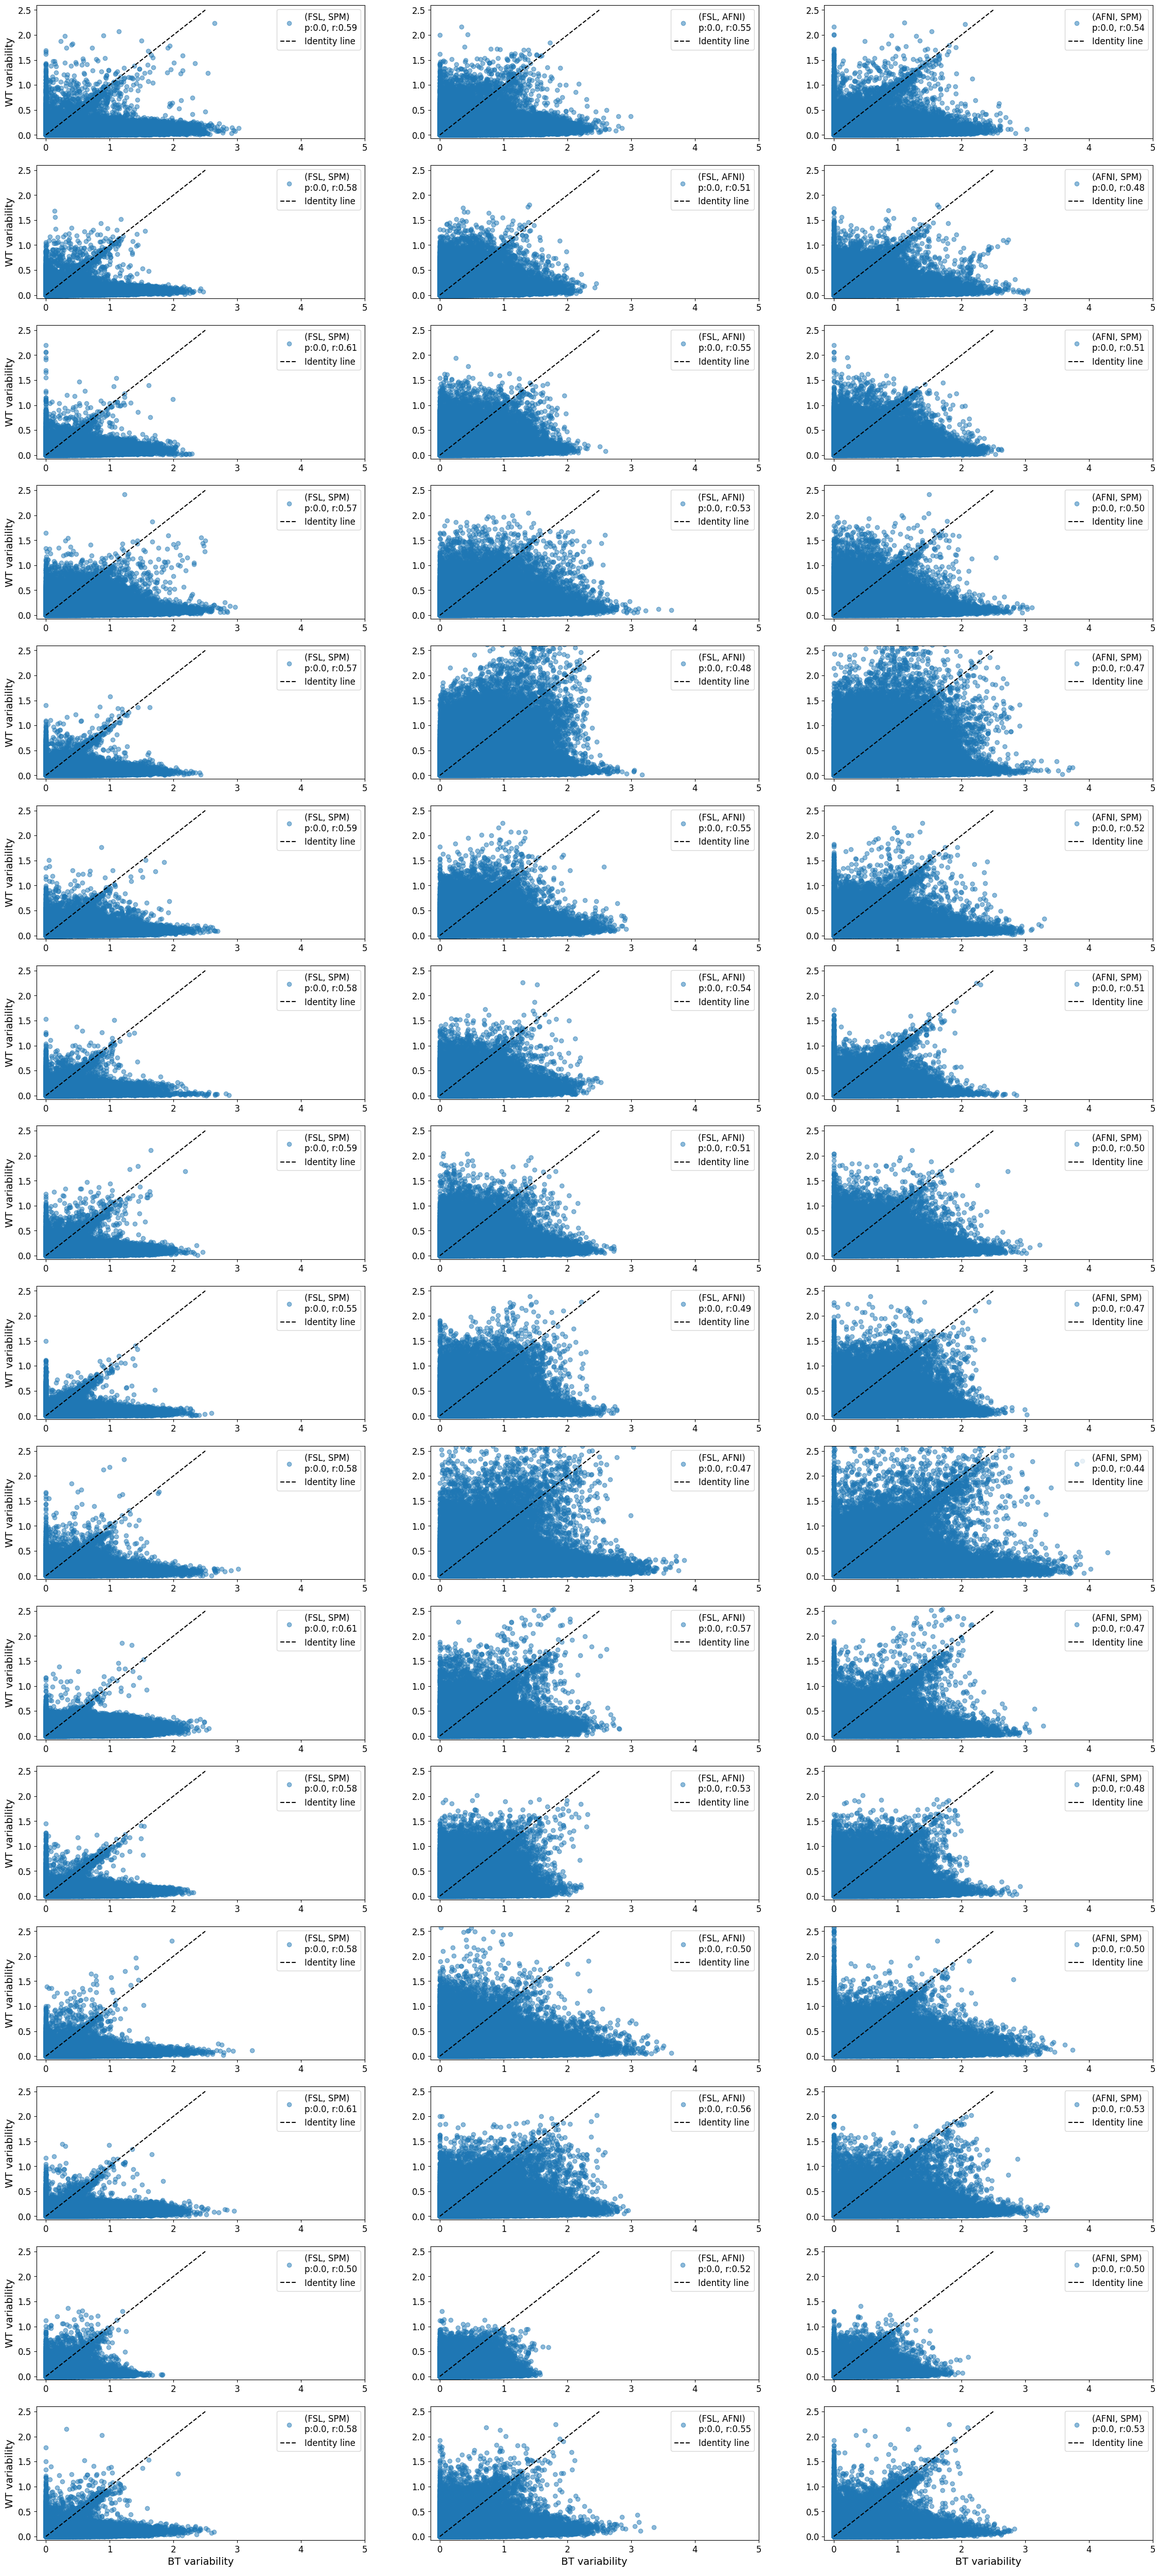
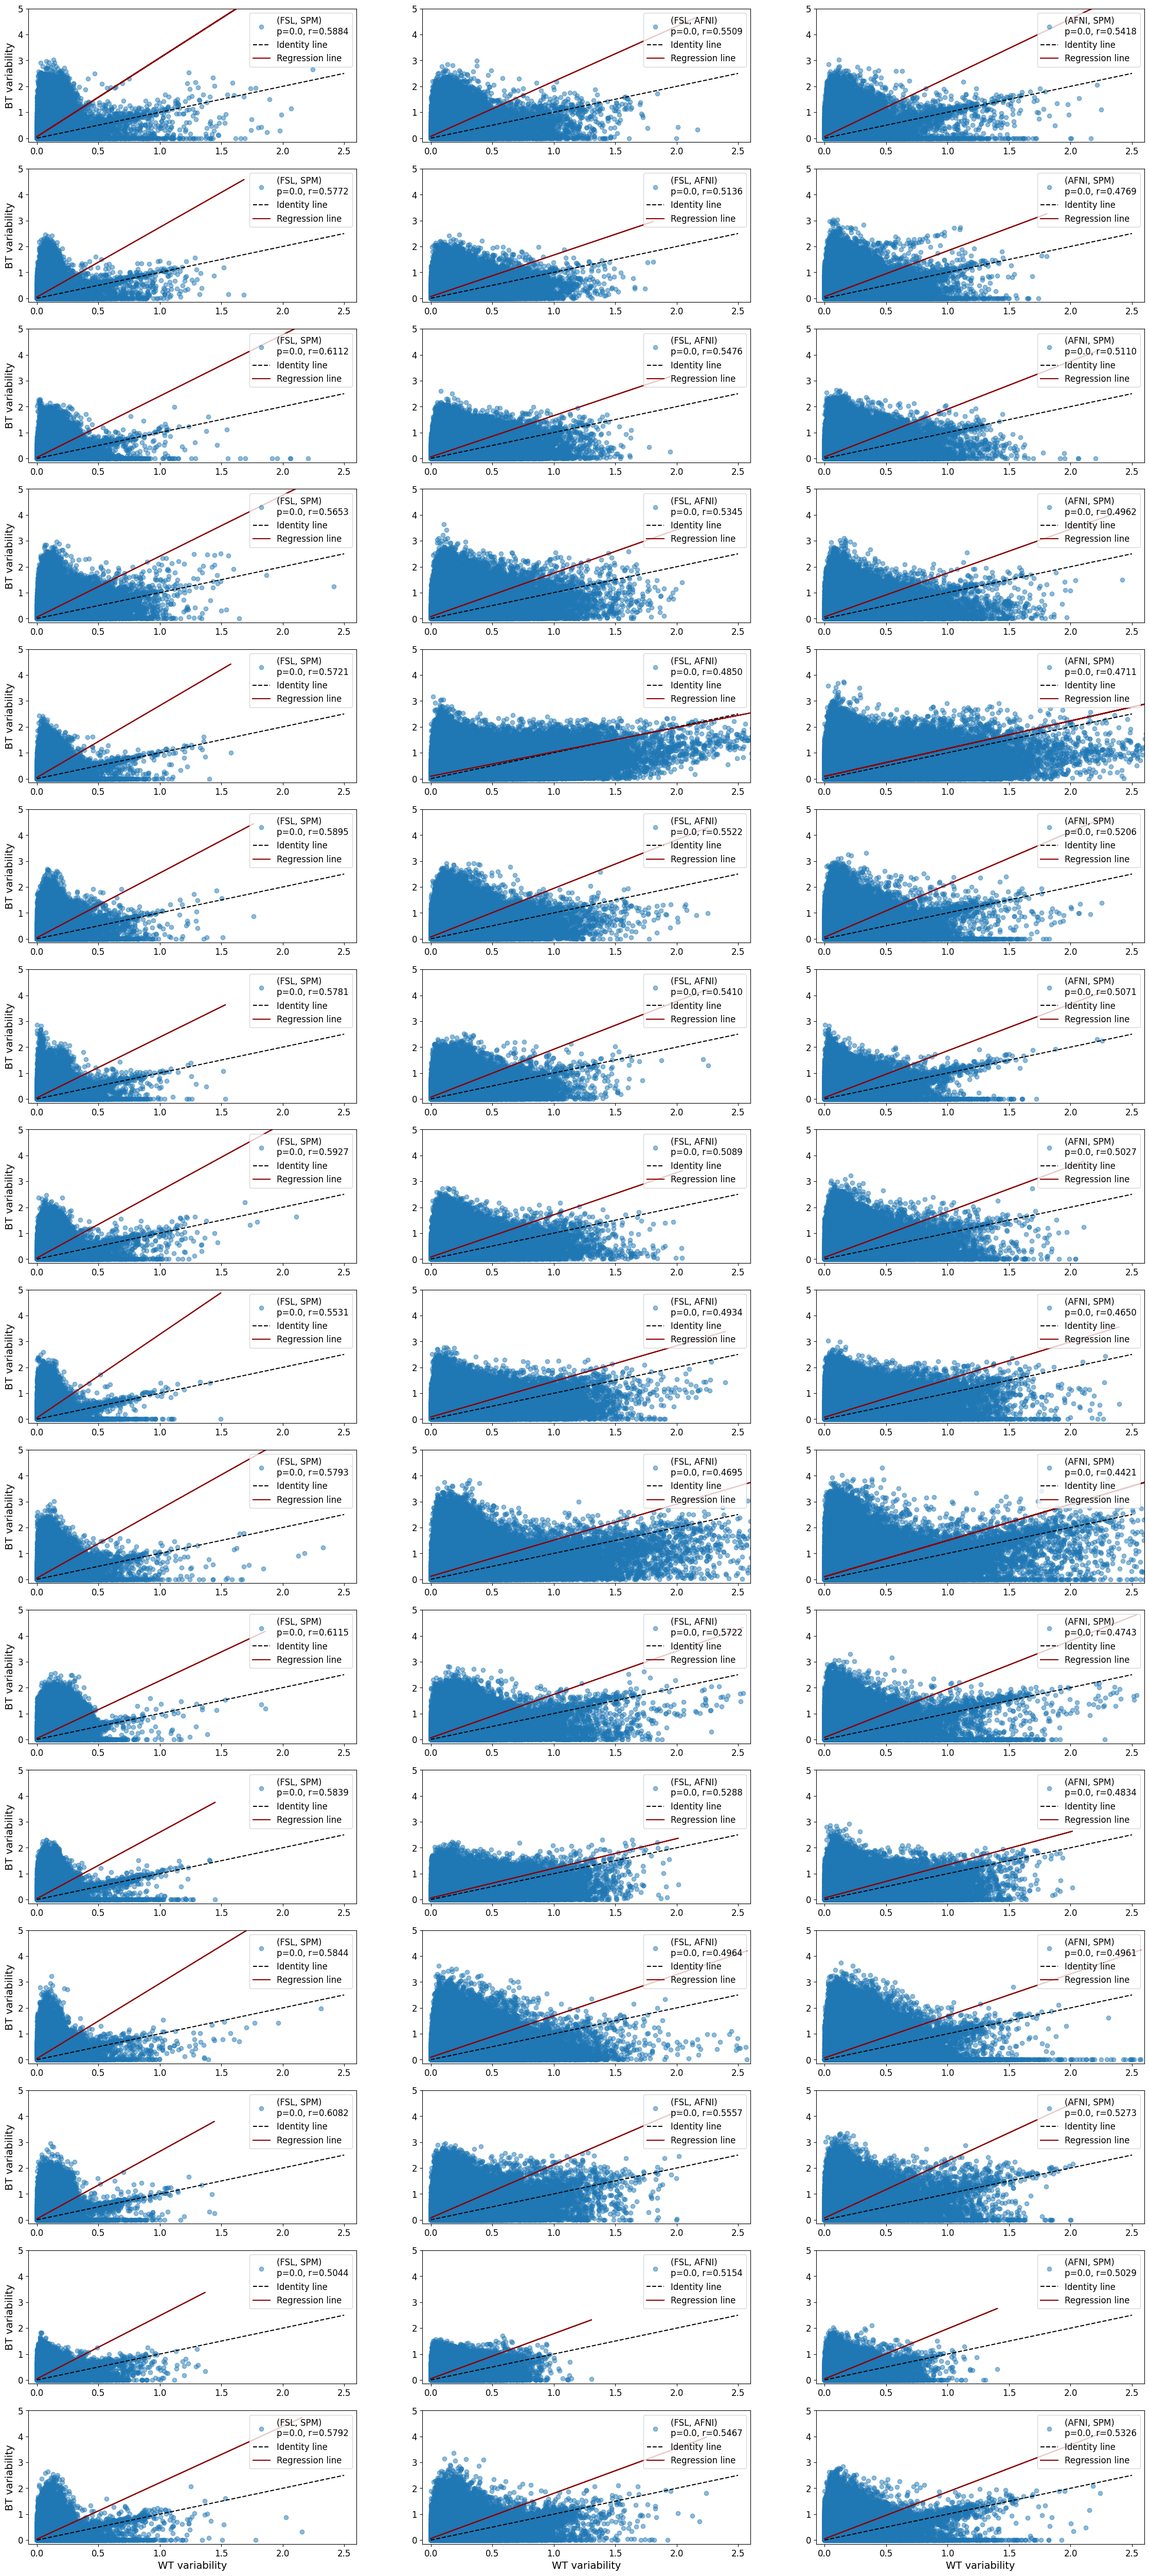
Update figures

diff --git a/paper/paper.tex b/paper/paper.tex
@@ -330,7 +330,7 @@ Summary statistics for the group-level unthresholded and thresholded
 t-statistics are reported in Table~\ref{table:pipeline-stats}. For each
 tool pair (A, B), BT variability was significantly larger than machine
 error in tool A or B, in both thresholded and unthresholded maps (Wilcoxon
-signed-rank test p=0 for all tests, t-test p~\textless~$10^{-163}$ for all
+signed-rank test p~\textless~$10^{-162}$ for all tests, t-test p=0 for all
 tests). 
 
 
@@ -389,11 +389,20 @@ any spatial consistency.
 %%%%%%%%%% Var. of Unthresh %%%%%%%%
 \begin{figure*}[ht]
     \fbox{\begin{minipage}{\dimexpr \textwidth-2\fboxsep-2\fboxrule}
+      \begin{subfigure}[ht]{\textwidth}
       \centering
       \includegraphics[width=\textwidth]{figures/std/gl-unthresh.png}
       %\caption{Standard deviation of thresholded t-statistics map on template surface}
+      \end{subfigure}
+      \hfill
+      \begin{subfigure}[ht]{\textwidth}
+        \centering
+        \includegraphics[width=.9\textwidth]{figures/std-corr-unthresh-plot.png}
+        %\caption{Standard deviation of thresholded t-statistics map on template surface}
+      \end{subfigure}
+
     \caption{Unthresholded group-level variability computed between tools (\textbf{A}) and within tools (\textbf{B}),
-    and difference between them (\textbf{C}). \tristan{Add XY plots for each map}}
+    and difference between them (\textbf{C}).}
     \label{fig:unthresh-maps}
     \end{minipage}}
   \end{figure*}
@@ -402,8 +411,9 @@ any spatial consistency.
 
   Summary statistics for subject-level unthresholded t-statistics maps are
   reported in Table~\ref{table:unthresh-maps-subjects}. As for group-level
-  maps, BT variability was consistently larger than WT variability
-  \tristan{report statistical tests}.
+  maps, BT variability was consistently larger than WT variability (Wilcoxon
+  signed-rank test p~\textless~$10^{-160}$ for all tests, t-test p=0 for all
+  tests). 
 
   Figure~\ref{fig:unthresh-maps-sbj} shows BT and WT variability for
   the subject with the highest WT variability among the 16 subjects. For
@@ -414,7 +424,6 @@ any spatial consistency.
   correlated for all subjects (Figure~\ref{fig:unthresh-correlation-allsbj}, 
   R in [0.442, 0.612], p=0.0 for all
   subjects).
-  \tristan{Add the subject XY plots as supplementary material}
 
   %%%%%%%%%% Summary of statstics %%%%%%%%
 \setlength{\tabcolsep}{5pt}
@@ -478,27 +487,23 @@ that BT and WT reach comparable magnitudes in some regions.
 
   
   %%%%%%%%%% plot different precisions%%%%%%%%
-  \begin{figure}[ht]
-    \fbox{\begin{minipage}{\dimexpr \textwidth-2\fboxsep-2\fboxrule}
-        \centering
-        \includegraphics[width=.75\textwidth]{figures/bg_global_precision.pdf}
-        %\caption{Standard deviation of thresholded t-statistics map on template surface}
-        \caption{Unthresholded group t-statistics standard deviations computed between tools (\textbf{A}) and within tools (\textbf{B}), and difference between them (\textbf{C}).
-        WT is computed at the virtual precision of t=17 bits.\tristan{merge with figure with brain maps}}
-    \label{fig:gnp-mni}
-    \end{minipage}}
-  \end{figure}
-
   \begin{figure*}[ht]
     \fbox{\begin{minipage}{\dimexpr \textwidth-2\fboxsep-2\fboxrule}
       \begin{subfigure}[ht]{\textwidth}
         \centering
-        \includegraphics[width=\textwidth]{figures/std-corr-unthresh-vp17-plot.png}
+        \includegraphics[width=.75\textwidth]{figures/bg_global_precision.pdf}
         %\caption{Standard deviation of thresholded t-statistics map on template surface}
-      \end{subfigure}
-      \caption{
-        Voxel-wise comparison of BT and WT variabilty. WT is computed with FSL at the virtual precision of t=17 bits.}
-    \label{fig:unthresh-correlation-gvp}
+        \end{subfigure}
+        \hfill
+        \begin{subfigure}[ht]{\textwidth}
+          \centering
+          \includegraphics[width=.8\textwidth]{figures/std-corr-unthresh-vp17-plot.png}
+          %\caption{Standard deviation of thresholded t-statistics map on template surface}
+        \end{subfigure}
+        %\caption{Standard deviation of thresholded t-statistics map on template surface}
+        \caption{Unthresholded group t-statistics standard deviations computed between tools (\textbf{A}) and within tools (\textbf{B}), and difference between them (\textbf{C}).
+        WT is computed at the virtual precision of t=17 bits.}
+    \label{fig:gnp-mni}
     \end{minipage}}
   \end{figure*}
 
@@ -517,25 +522,26 @@ that BT and WT reach comparable magnitudes in some regions.
   %%%%%%%%%% Var. of Thresh %%%%%%%%
   \begin{figure*}[ht]
       \fbox{\begin{minipage}{\dimexpr \textwidth-2\fboxsep-2\fboxrule}
+        \begin{subfigure}[ht]{\textwidth}
+          \centering
+          \includegraphics[width=\textwidth]{figures/std/gl-thresh.png}
+          %\caption{Standard deviation of thresholded t-statistics map on template surface}
+          \end{subfigure}
+          \hfill
+          \begin{subfigure}[ht]{\textwidth}
+            \centering
+            \includegraphics[width=.9\textwidth]{figures/dice_analysis-plot.png}
+            %\caption{Standard deviation of thresholded t-statistics map on template surface}
+          \end{subfigure}
         \centering
-        \includegraphics[width=\textwidth]{figures/std/gl-thresh.png}
       \caption{Thresholded group t-statistics standard deviation maps
       computed across tools (\textbf{A}) and Fuzzy Libmath samples
-      (\textbf{B}).}
+      (\textbf{B}). The confusion matrices of activation instability
+      in BT and WT among the 360 regions from the HCP-MMP1.0 parcellation is represented in the bottom row.}
       \label{fig:thresh-maps}
       \end{minipage}}
     \end{figure*}
   
-    % %%%%%%%%%% Dice plot of thresholded tstats%%%%%%%%
-    \begin{figure*}[ht]
-      \fbox{\begin{minipage}{\dimexpr \textwidth-2\fboxsep-2\fboxrule}
-      \centering
-      \includegraphics[width=\textwidth]{figures/dice_analysis-plot.png}
-      \caption{Confusion matrices of activation instability
-      in BT and WT among the 360 regions from the HCP-MMP1.0 parcellation.}
-      \label{fig:cm-thresh}
-    \end{minipage}}
-    \end{figure*}
 
 \section{Discussion}
 
@@ -587,7 +593,15 @@ account for numerical variability.
 
 \appendix
 
-\tristan{Add SPM and AFNI replication figure here.}
+\begin{figure*}[ht]
+  \fbox{\begin{minipage}{\dimexpr \textwidth-2\fboxsep-2\fboxrule}
+  \centering
+  \includegraphics[width=\textwidth]{figures/replication-diffs.png}
+  \caption{Differences between replicated and original results obtained in~\cite{bowring2019exploring} 
+  of unthresholded group-level t-statistics for SPM (left) and AFNI (right).}
+  \label{fig:replication-diff}
+\end{minipage}}
+\end{figure*}
 
 \begin{figure*}[ht]
   \fbox{\begin{minipage}{\dimexpr \textwidth-2\fboxsep-2\fboxrule}
@@ -596,8 +610,7 @@ account for numerical variability.
       \includegraphics[width=.6\textwidth]{figures/sbj-std-corr-unthresh-plot.png}
       %\caption{Standard deviation of thresholded t-statistics map on template surface}
     \end{subfigure}
-    \caption{
-      Voxel-wise comparison of BT and WT variabilty subject by subject. \tristan{update figure}}
+    \caption{Voxel-wise comparison of BT and WT variabilty for 16 subjects.}
   \label{fig:unthresh-correlation-allsbj}
   \end{minipage}}
 \end{figure*}
